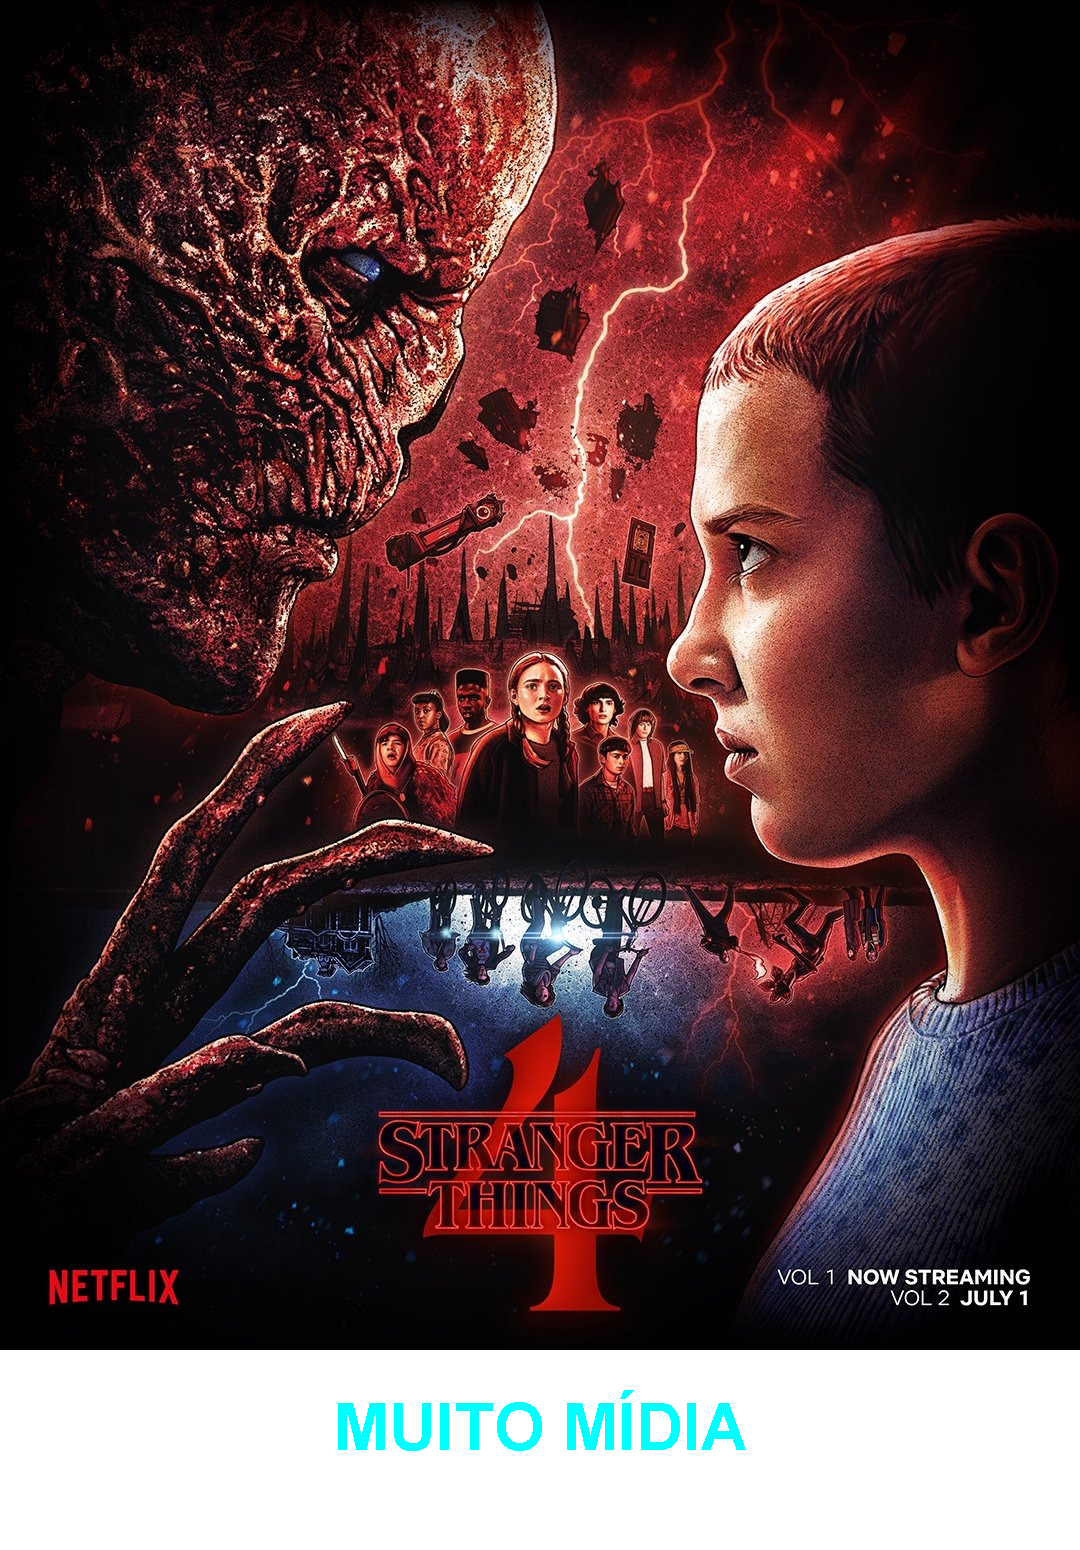
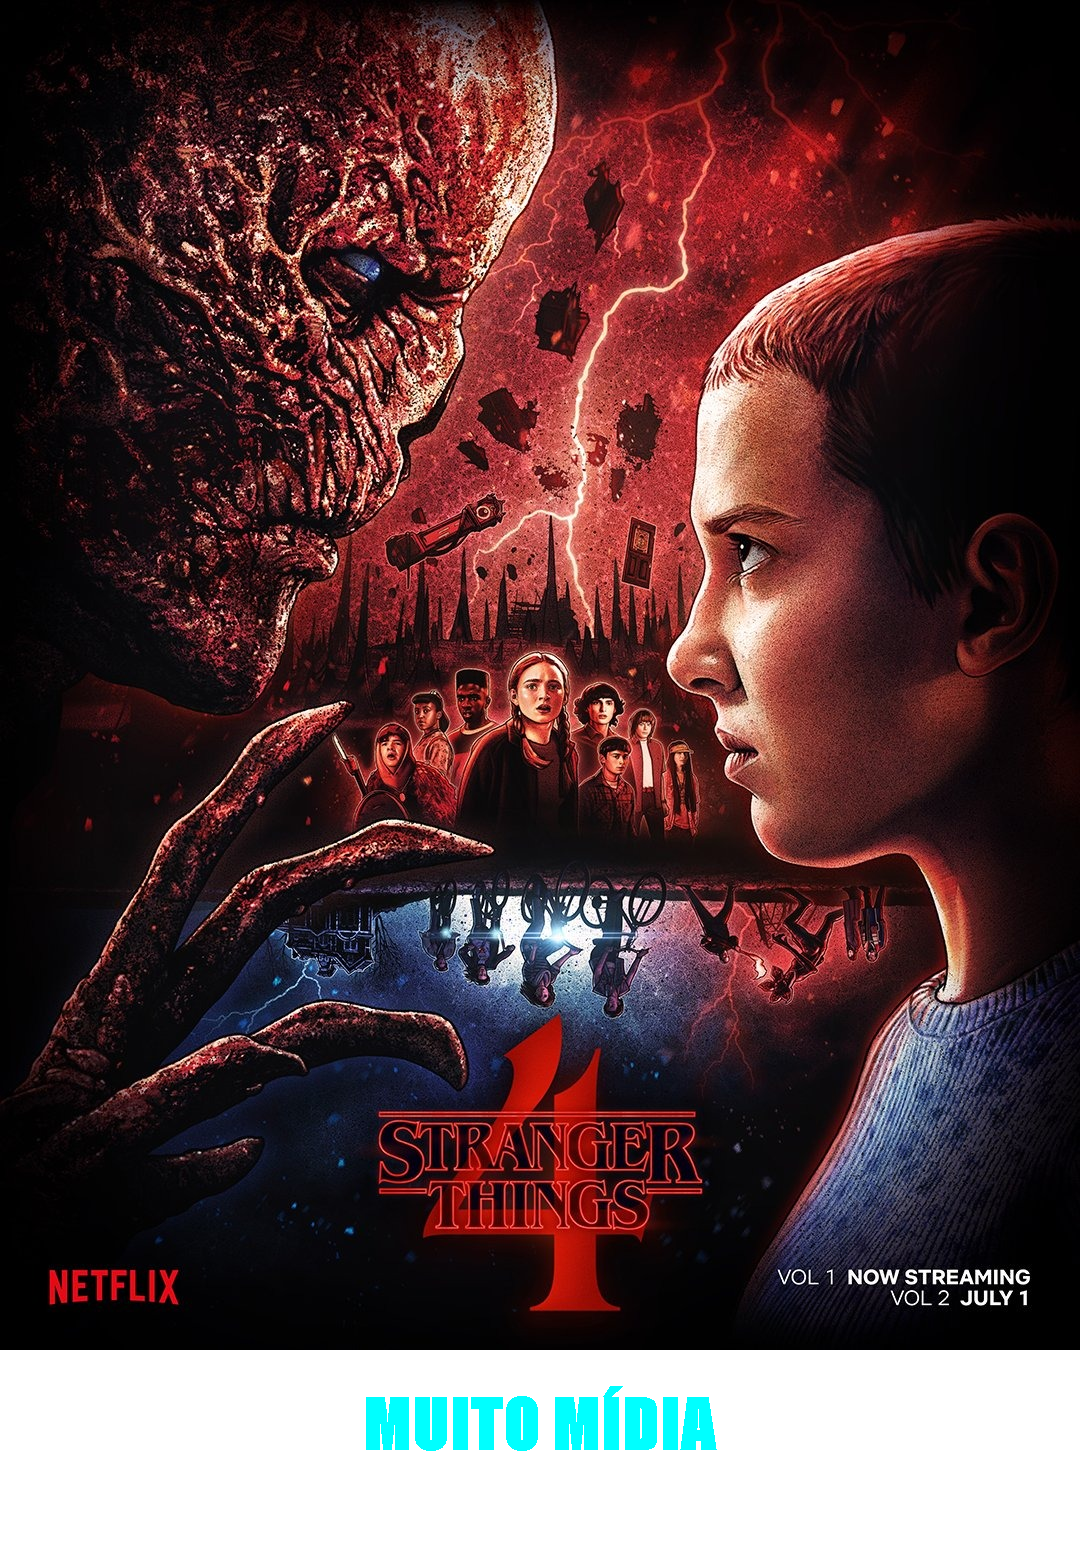
Desafio 03 - Colocar a fonte impact

Changed region(s): [[0.3056, 0.8981, 0.7028, 0.96]]

diff --git a/src/application/GeradoraDeFigurinhas.java b/src/application/GeradoraDeFigurinhas.java
@@ -38,14 +38,12 @@ public class GeradoraDeFigurinhas {
 
 		// configurar a fonte
 		
-		var fonte = new Font(Font.SANS_SERIF, Font.BOLD, 65);
+		var fonte = new Font("Impact", Font.BOLD, 65);
 		graphics.setColor(Color.CYAN);
 		graphics.setFont(fonte);
 		
 
 		// escrever uma frase na nova imagem
-		
-		
 		
 		String texto = "MUITO MÍDIA";
 		FontMetrics fontMetrics = graphics.getFontMetrics();
